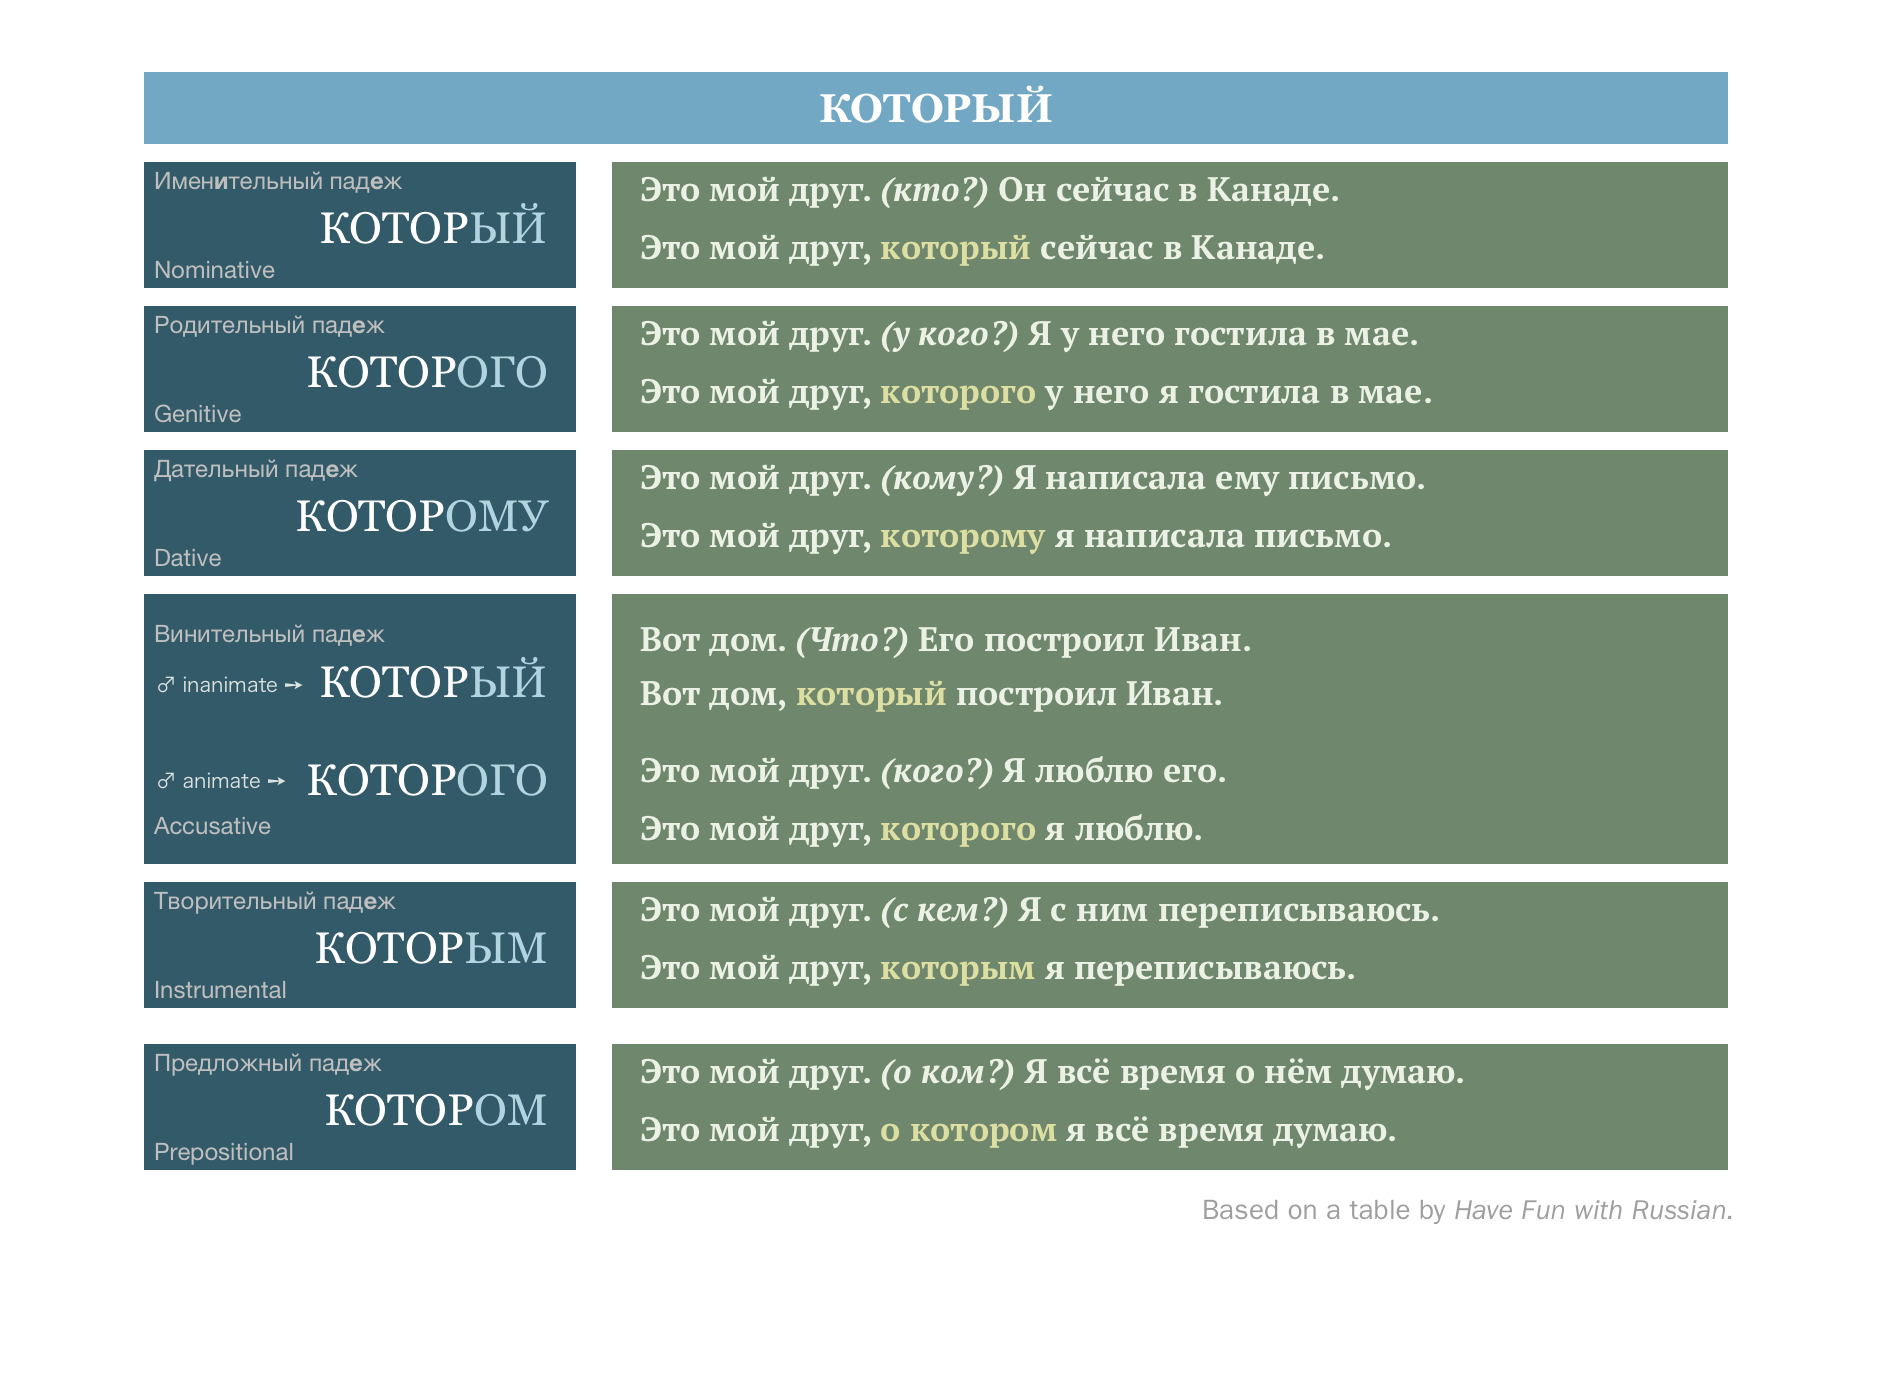
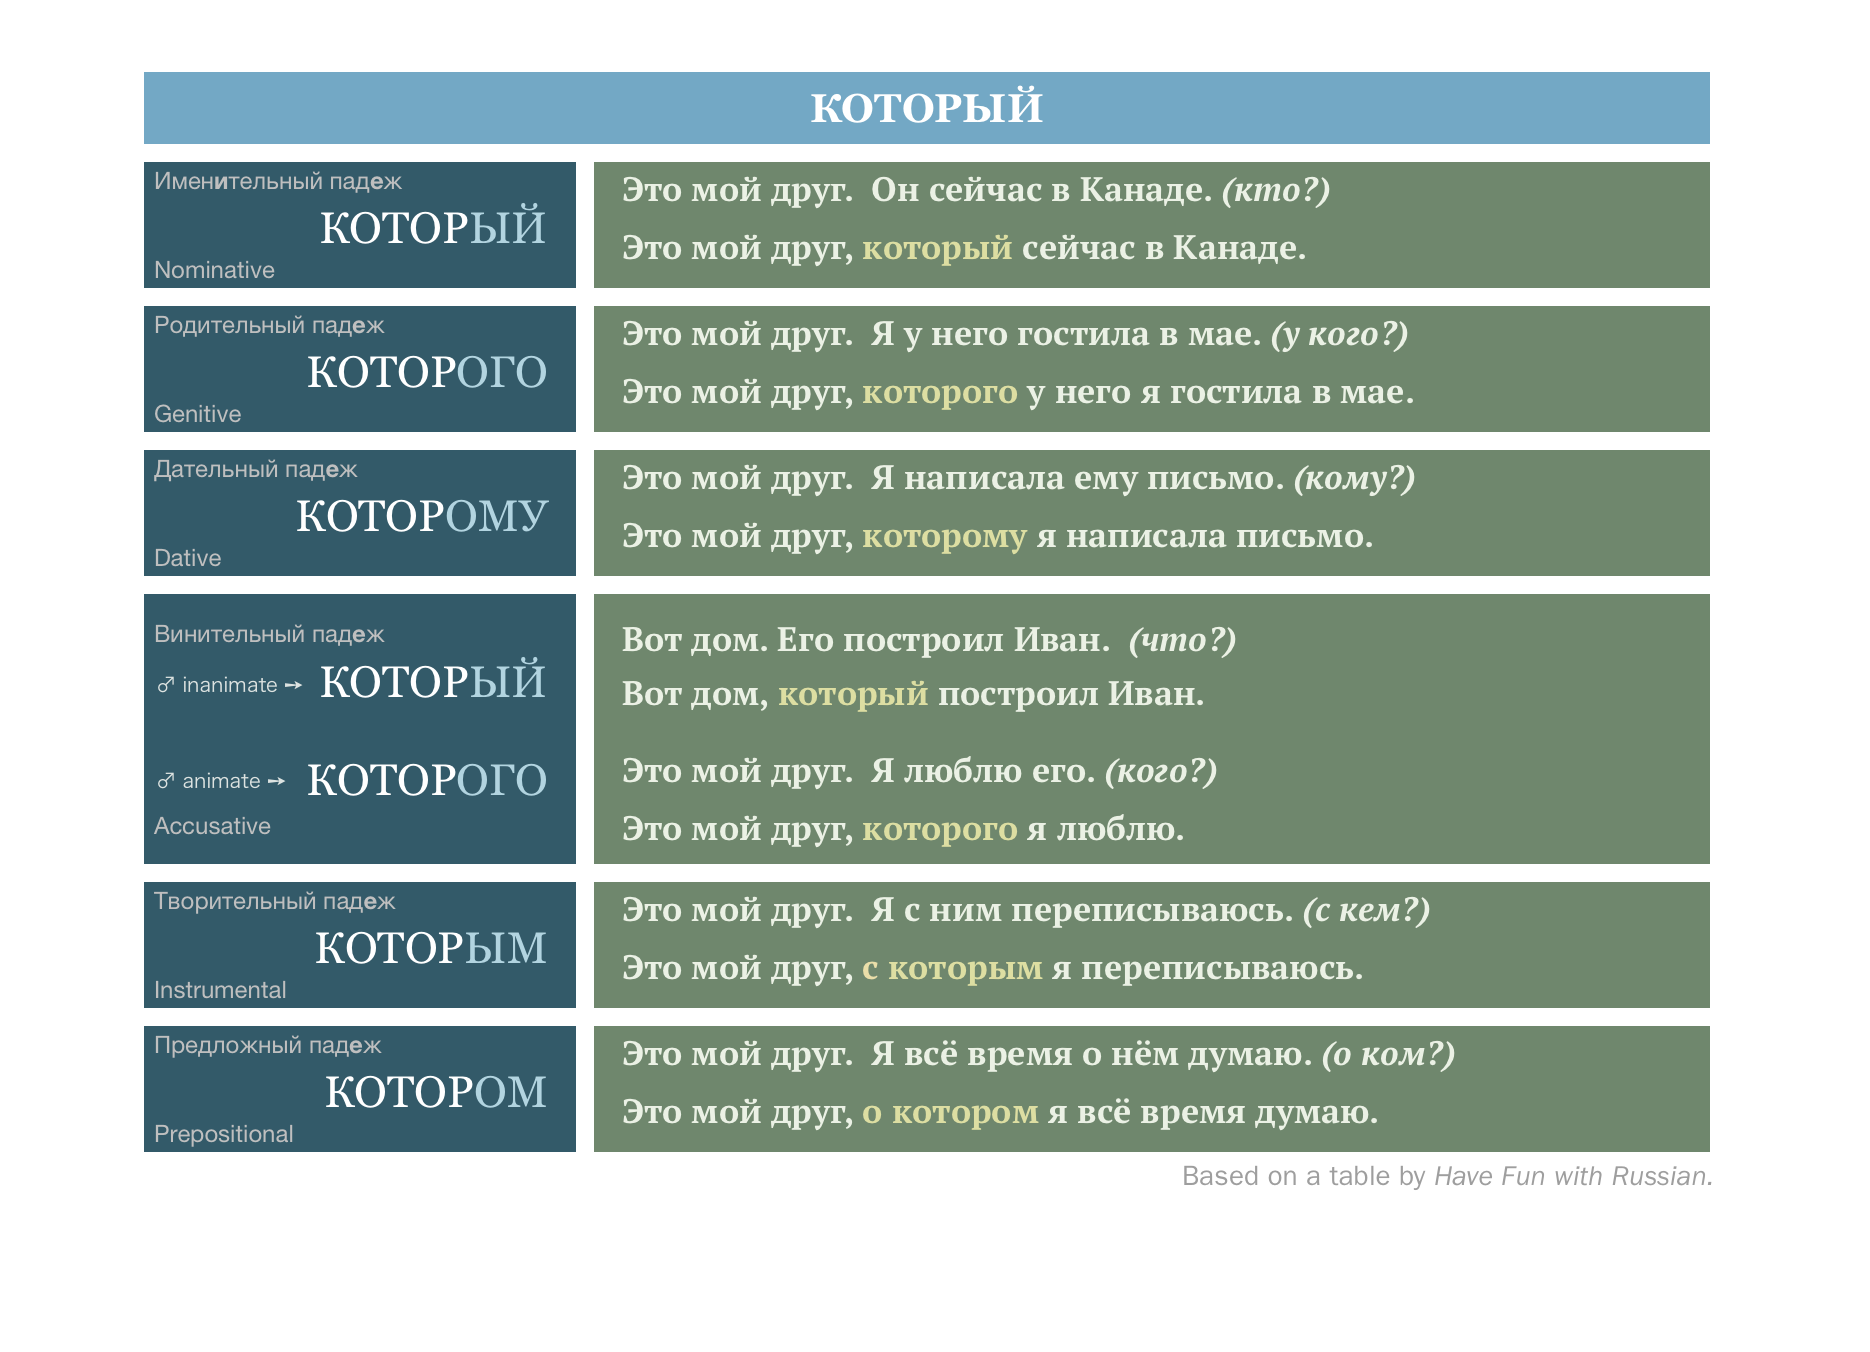
Corrected errors about который

Changed region(s): [[0.062, 0.0621, 0.9305, 0.9009]]

diff --git a/который.html b/который.html
@@ -39,8 +39,8 @@
 <p class="p4"><br></p>
 <p class="p3">In its use a relative pronoun, it must agree in case depending on its role in the dependent clause. See the following table:</p>
 <p class="p4"><br></p>
-<p class="p3"><img src="%D0%BA%D0%BE%D1%82%D0%BE%D1%80%D1%8B%D0%B9.1792FFCF-9750-4438-9E99-278B7D25FAF9.png" width="945" height="693" alt="1792FFCF-9750-4438-9E99-278B7D25FAF9.png"></p>
 <p class="p4"><br></p>
+<p class="p3"><img src="%D0%BA%D0%BE%D1%82%D0%BE%D1%80%D1%8B%D0%B9.%D0%BA%D0%BE%D1%82%D0%BE%D1%8B%D0%B8%CC%86%20chart.png" width="935" height="676" alt="котоый chart.png"></p>
 <p class="p4"><br></p>
 <p class="p4"><br></p>
 <p class="p3">last modified: 2017-04-20 06-51-38</p>
